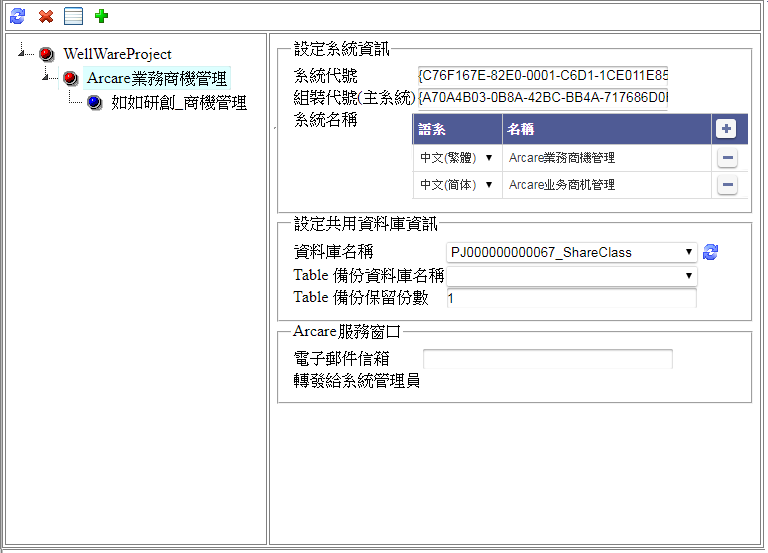
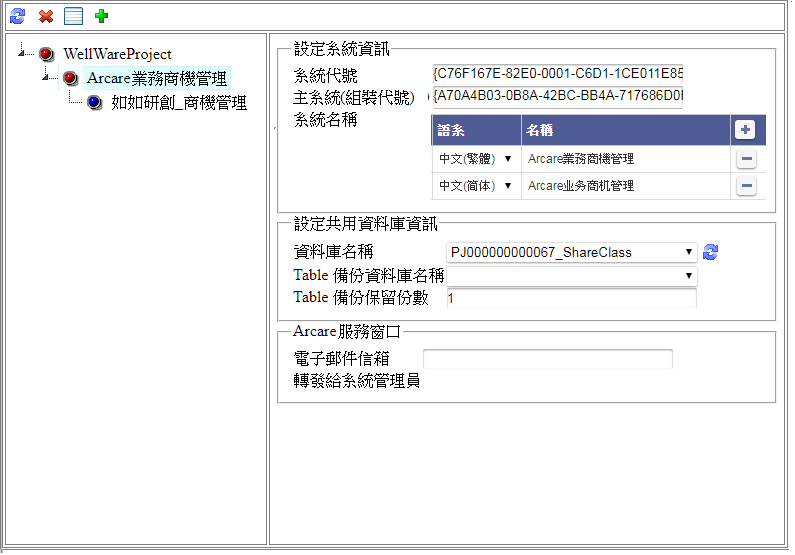
8.10.0 RTE 多語規格修改

Changed region(s): [[0.0, 0.0, 1.0, 1.0]]

diff --git a/8.10.0/UPDATE/ITEM_3/RTE/README.md b/8.10.0/UPDATE/ITEM_3/RTE/README.md
@@ -44,23 +44,23 @@
         * 執行
             * Site資料庫
                 * 若原版本<8.10.0時 (擴充)
-                    * 專案名稱
-                        * 若已安裝[主專案]時
+                    * 系統名稱
+                        * 若已安裝[主系統]時
 
-                            產生[主專案]的語系，內容為原專案名稱。
+                            產生[主系統]的語系，內容為原系統名稱。
 
-                        * 若尚未安裝[主專案]時
+                        * 若尚未安裝[主系統]時
 
-                            產生所有語系，內容為原專案名稱。
+                            產生所有語系，內容為原系統名稱。
 
-                    * 公司名稱
-                        * 若已安裝[主專案]時
+                    * 帳務名稱
+                        * 若已安裝[主系統]時
 
-                            產生[主專案]的語系，內容為原公司名稱。
+                            產生[主系統]的語系，內容為原帳務名稱。
 
-                        * 若尚未安裝[主專案]時
+                        * 若尚未安裝[主系統]時
 
-                            產生所有語系，內容為原公司名稱。
+                            產生所有語系，內容為原帳務名稱。
 
 * 作業流程
     * 執行按鈕.重整資料庫
@@ -70,11 +70,11 @@
 ### <div id="site_projectnndex">表單.系統管理 <path>(需求展開\Site)</path></div>
 * 異動
 * 表單畫面
-    * 專案名稱
+    * 系統節點
 
         ![表單_系統管理(專案)]
 
-    * 分公司名稱
+    * 帳務節點
 
         ![表單_系統管理(分公司)]
 
@@ -88,26 +88,26 @@
 
 
 * 畫面規格說明
-    * 專案節點
-        * 欄位.組裝專案代號
+    * 系統節點
+        * 欄位.主系統(組裝代號)
             * 若有異動，且已安裝該專案時
                 * 專案名稱
                     * 不存在的語系 : 新增，預設:專案名稱。
                     * 已存在的語系 : 不覆蓋。
-                    * 不存在[主專案]的語系 : 刪除。
+                    * 不存在[主系統]的語系 : 刪除。
 
         * 按鈕.新增語系(+)
-            * 致能條件 : 未安裝[主專案]時。
+            * 致能條件 : 未安裝[主系統]時。
             * 執行
                 * 新增一筆記錄。
 
         * 按鈕.刪除語系(-)
-            * 致能條件 : 未安裝[主專案]時。
+            * 致能條件 : 未安裝[主系統]時。
             * 執行
                 * 新增一筆記錄。
 
         * 欄位.語系
-            * 唯讀條件 : 已安裝[主專案]時。
+            * 唯讀條件 : 已安裝[主系統]時。
             * 選項
                 * 437 : English
                 * 950 : 中文(繁體)
@@ -116,35 +116,35 @@
 
                 <ps>注意</ps> 順序依上列清單。
 
-            * <ps>注意</ps> 若尚未安裝[主專案]時，所有語系皆可設定。
+            * <ps>注意</ps> 若尚未安裝[主系統]時，所有語系皆可設定。
 
-        * 欄位.專案名稱
+        * 欄位.名稱
 
         * 按鈕.儲存
-            * 若已安裝[主專案]時
-                * 專案名稱 : [主專案]的語系皆須設定。
+            * 若已安裝[主系統]時
+                * 系統名稱 : [主系統]的語系皆須設定。
                 * 若[欄位.組裝專案代號]有異動
-                    * 公司名稱
+                    * 帳務名稱
                         * 不存在的語系 : 新增，預設:依[登入語系]，若[登入語系]也沒設定時，依選項順序。
                         * 已存在的語系 : 不覆蓋。
-                        * 不存在[主專案]的語系 : 刪除。    
-            * 若尚未安裝[主專案]時
-                * 專案名稱 : 至少要有一筆記錄。
+                        * 不存在[主系統]的語系 : 刪除。    
+            * 若尚未安裝[主系統]時
+                * 系統名稱 : 至少要有一筆記錄。
 
-    * 分公司節點
+    * 帳務節點
 
         * 按鈕.新增語系(+)
-            * 致能條件 : 未安裝[主專案]時。
+            * 致能條件 : 未安裝[主系統]時。
             * 執行
                 * 新增一筆記錄。
 
         * 按鈕.刪除語系(-)
-            * 致能條件 : 未安裝[主專案]時。
+            * 致能條件 : 未安裝[主系統]時。
             * 執行
                 * 新增一筆記錄。
 
         * 欄位.語系
-            * 唯讀條件 : 已安裝[主專案]時。
+            * 唯讀條件 : 已安裝[主系統]時。
             * 選項
                 * 437 : English
                 * 950 : 中文(繁體)
@@ -153,45 +153,45 @@
 
                 <ps>注意</ps> 順序依上列清單。
 
-            * <ps>注意</ps> 若尚未安裝[主專案]時，所有語系皆可設定。
+            * <ps>注意</ps> 若尚未安裝[主系統]時，所有語系皆可設定。
 
-        * 欄位.公司名稱 
+        * 欄位.名稱 
 
         * ~~欄位.公司英文名稱~~
             * 作廢此欄位。
 
         * 按鈕.儲存
-            * 若已安裝[主專案]時
-                * 公司名稱 : [主專案]的語系皆須設定。
-            * 若尚未安裝[主專案]時
+            * 若已安裝[主系統]時
+                * 公司名稱 : [主系統]的語系皆須設定。
+            * 若尚未安裝[主系統]時
                 * 公司名稱 : 至少要有一筆記錄。
 
 * 作業流程
-    * 專案節點_改變組裝專案代號
+    * 系統節點_改變主系統(組裝代號)
 
         ![表單_系統管理_專案節點_改變組裝專案代號]
 
-    * 專案節點_專案名稱_新增語系
+    * 系統節點_系統名稱_新增語系
 
         ![表單_系統管理_專案節點_專案名稱_新增語系]
 
-    * 專案節點_專案名稱_刪除語系
+    * 系統節點_系統名稱_刪除語系
 
         ![表單_系統管理_專案節點_專案名稱_刪除語系]
 
-    * 專案節點_儲存
+    * 系統節點_儲存
 
         ![表單_系統管理_專案節點_儲存]
 
-    * 分公司節點_公司名稱_新增語系
+    * 帳務節點_帳務名稱_新增語系
 
         ![表單_系統管理_分公司節點_公司名稱_新增語系]
 
-    * 分公司節點_公司名稱_刪除語系
+    * 帳務節點_帳務名稱_刪除語系
 
         ![表單_系統管理_分公司節點_公司名稱_刪除語系]
 
-    * 分公司節點_儲存
+    * 帳務節點_儲存
 
         ![表單_系統管理_分公司節點_儲存]
 
@@ -233,16 +233,16 @@
 * 畫面規格說明
     * 按鈕.匯入
         * 安裝[專案語系]時
-            * 若安裝[主專案]時，專案名稱/公司名稱各語系比對異動。
+            * 若安裝[主系統]時，專案名稱/公司名稱各語系比對異動。
                 * 專案名稱
                     * 不存在的語系 : 新增，預設:專案名稱。
                     * 已存在的語系 : 不覆蓋。
-                    * 不存在[主專案]的語系 : 刪除。
+                    * 不存在[主系統]的語系 : 刪除。
 
                 * 分公司名稱
                     * 不存在的語系 : 新增，預設:依[登入語系]，若[登入語系]也沒設定時，依選項順序。
                     * 已存在的語系 : 不覆蓋。
-                    * 不存在[主專案]的語系 : 刪除。
+                    * 不存在[主系統]的語系 : 刪除。
 
 * 作業流程
     * 匯入
